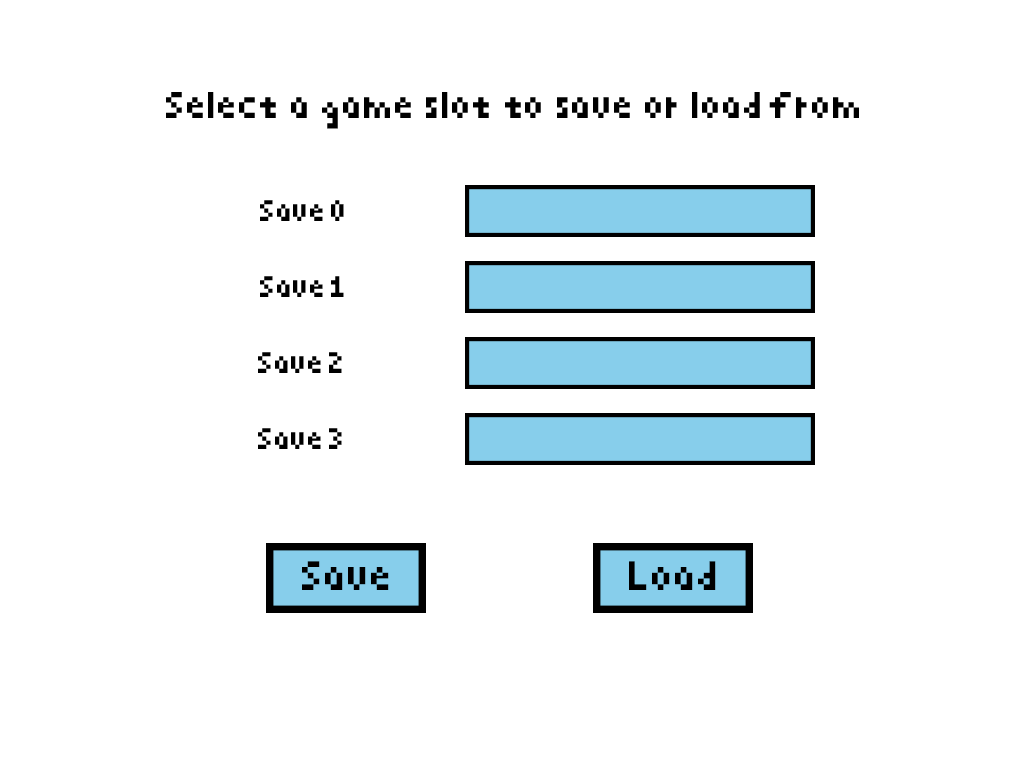
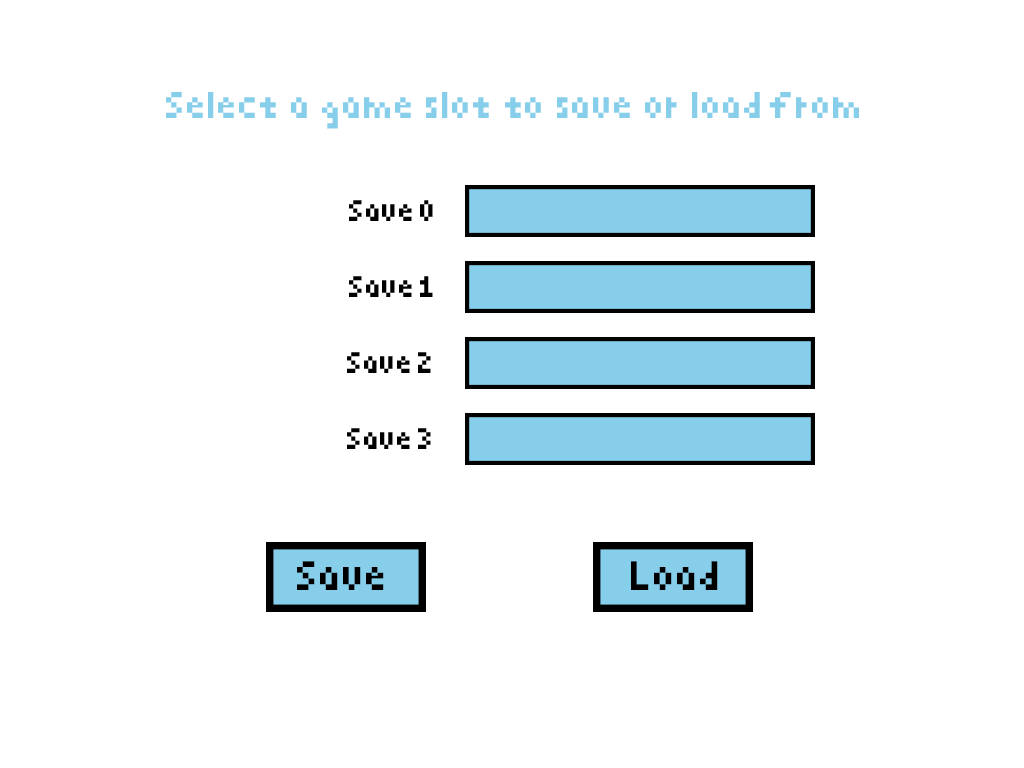
Color Adjustment

diff --git a/MonsterGenome/SourceFiles/SaveLoadMenu.cpp b/MonsterGenome/SourceFiles/SaveLoadMenu.cpp
@@ -44,11 +44,11 @@ SaveLoadMenu::SaveLoadMenu(float width, float height, std::map<std::string, sf::
 
     saveButton.loadFromFile("../../Assets/Backgrounds/SaveLoad/SaveButtonSelected.png");
     saveButtonSprite.setTexture(saveButton);
-    saveButtonSprite.setPosition(266, 543);
+    saveButtonSprite.setPosition(266, 542);
 
     loadButton.loadFromFile("../../Assets/Backgrounds/SaveLoad/LoadButtonSelected.png");
     loadButtonSprite.setTexture(loadButton);
-    loadButtonSprite.setPosition(593, 543);
+    loadButtonSprite.setPosition(593, 542);
 
     enteredBox.loadFromFile("../../Assets/Backgrounds/SaveBoxEntered.png");
     enteredBoxSprite.setTexture(enteredBox);

diff --git a/MonsterGenome/SourceFiles/Menu.cpp b/MonsterGenome/SourceFiles/Menu.cpp
@@ -9,7 +9,7 @@ Menu::Menu(float width, float height, std::map<std::string, sf::Keyboard::Key>* 
     // TODO: Make game logo
     title.setString("The Monster Genome");
     title.setFont(font);
-    title.setFillColor(Color::Blue);
+    title.setFillColor(Color::Cyan);
     title.setCharacterSize(100);
     FloatRect titleBox = title.getGlobalBounds();
     float titleOffset = titleBox.width / 2;
